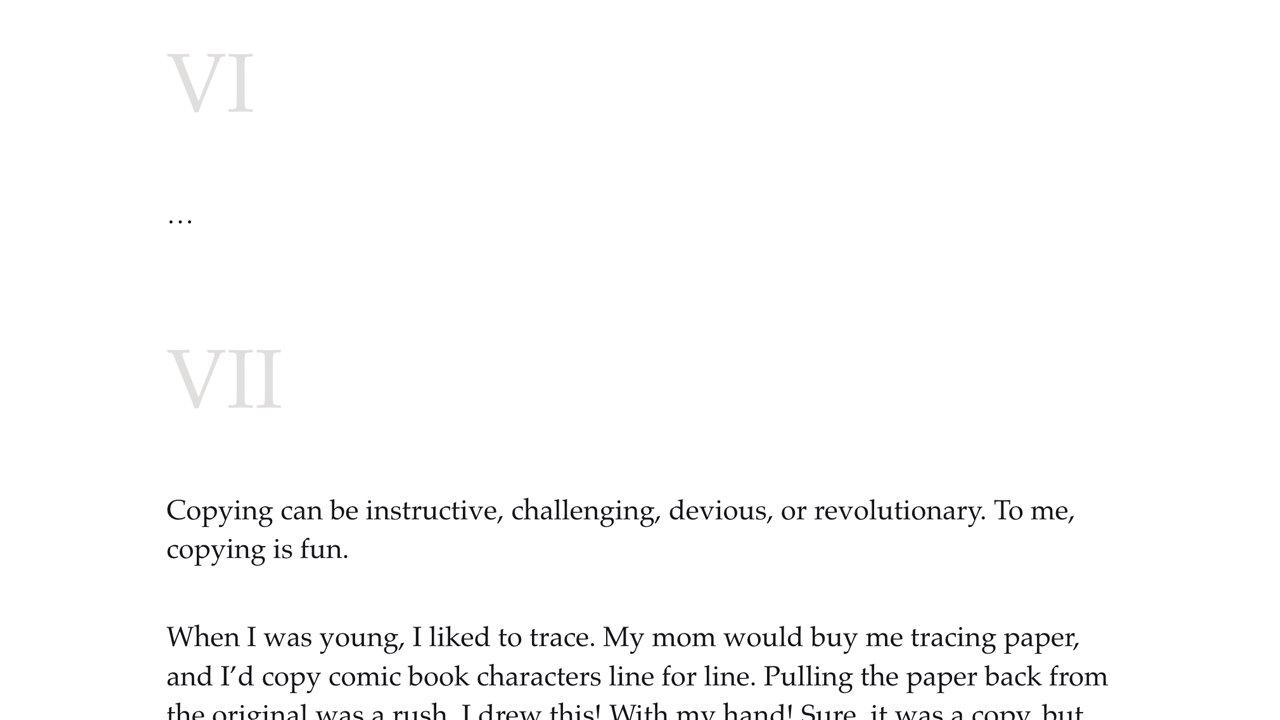
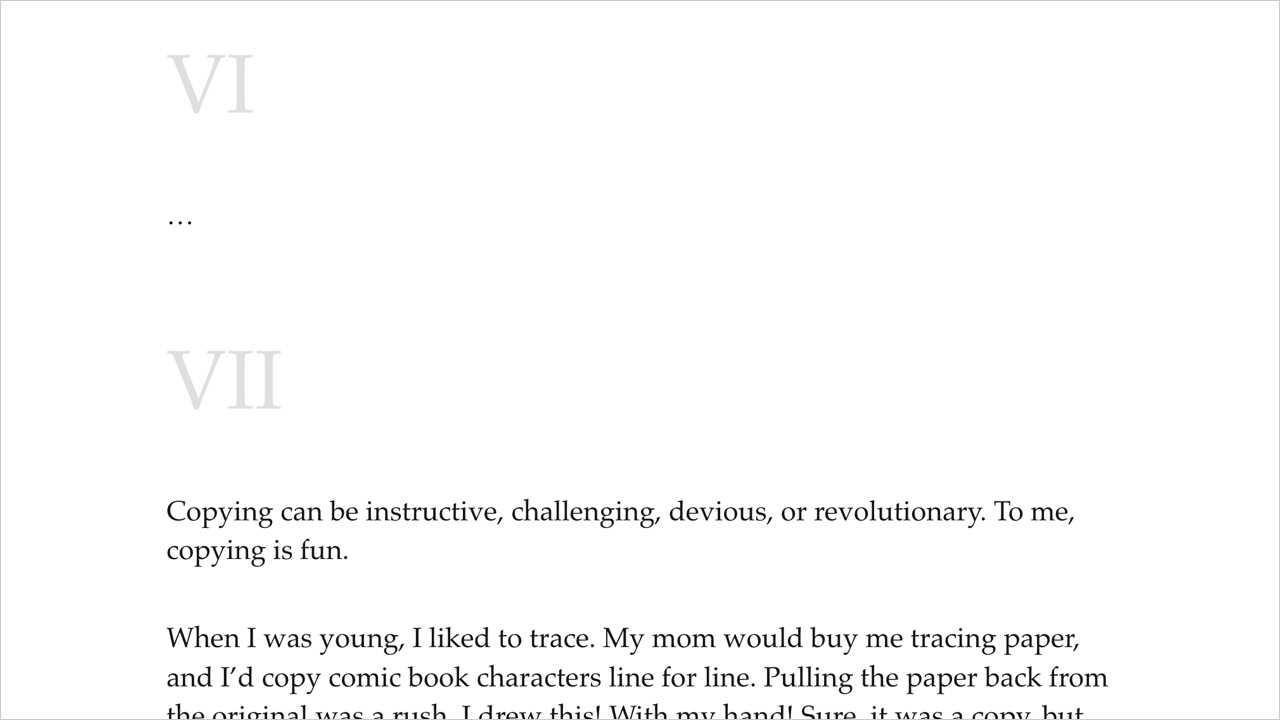
Remove style and stop designing
- Remove HTML
- Update image

Changed region(s): [[0.125, 0.8556, 0.8438, 1.0], [0.125, 0.7028, 0.8438, 0.7944]]

diff --git a/04-voice-tone.md b/04-voice-tone.md
@@ -12,11 +12,7 @@
 >
 > — [Austin Kleon](https://austinkleon.com)
 
-<figure style="border: 1px solid #ccc; margin: 0;">
-
 ![Copying article webpage with Chapters 6 and 7 roman numerals.](./img/04-voice-tone-chapter-6.png)
-
-</figure>
 
 Copying the writing style, voice, tone, and format of [Copying (is the way design works)](https://matthewstrom.com/writing/copying/) write a new Chapter 6 (VI), expanding the short book from six to seven chapters, about an influential copying experience in your life.
 
